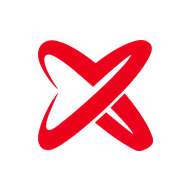
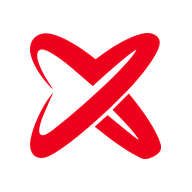
Icone do app: master 512px e X maior (#60)
apple-icon.png passa de 180 para 512px, para o iOS reduzir a partir de uma
arte mais detalhada (Ajustes, Spotlight, iPad). A ocupacao sobe de 62% para
68%, deixando o icone mais cheio.

Como 68% estoura a zona segura recomendada do Android (circulo de 80%),
separa um icon-maskable-512.png a 60% so para o purpose maskable; os demais
ficam com o enquadramento cheio.

Conferido com as mascaras dos dois sistemas: 0% de corte em todos.

Claude-Session: https://claude.ai/code/session_01XMb7g1nUyR8d6dfiGUXyxp

diff --git a/app/manifest.ts b/app/manifest.ts
@@ -25,16 +25,11 @@ export default function manifest(): MetadataRoute.Manifest {
         type: "image/png",
         purpose: "any",
       },
-      // Versões "maskable": o Android recorta o ícone em círculo/squircle,
-      // por isso a arte é gerada com margem de sobra.
+      // Versão "maskable": o Android recorta o ícone (círculo/squircle) e
+      // recomenda manter a arte dentro de um círculo de 80% do lado — por
+      // isso este arquivo usa a arte menor que os de cima.
       {
-        src: "/icon-192.png",
-        sizes: "192x192",
-        type: "image/png",
-        purpose: "maskable",
-      },
-      {
-        src: "/icon-512.png",
+        src: "/icon-maskable-512.png",
         sizes: "512x512",
         type: "image/png",
         purpose: "maskable",
